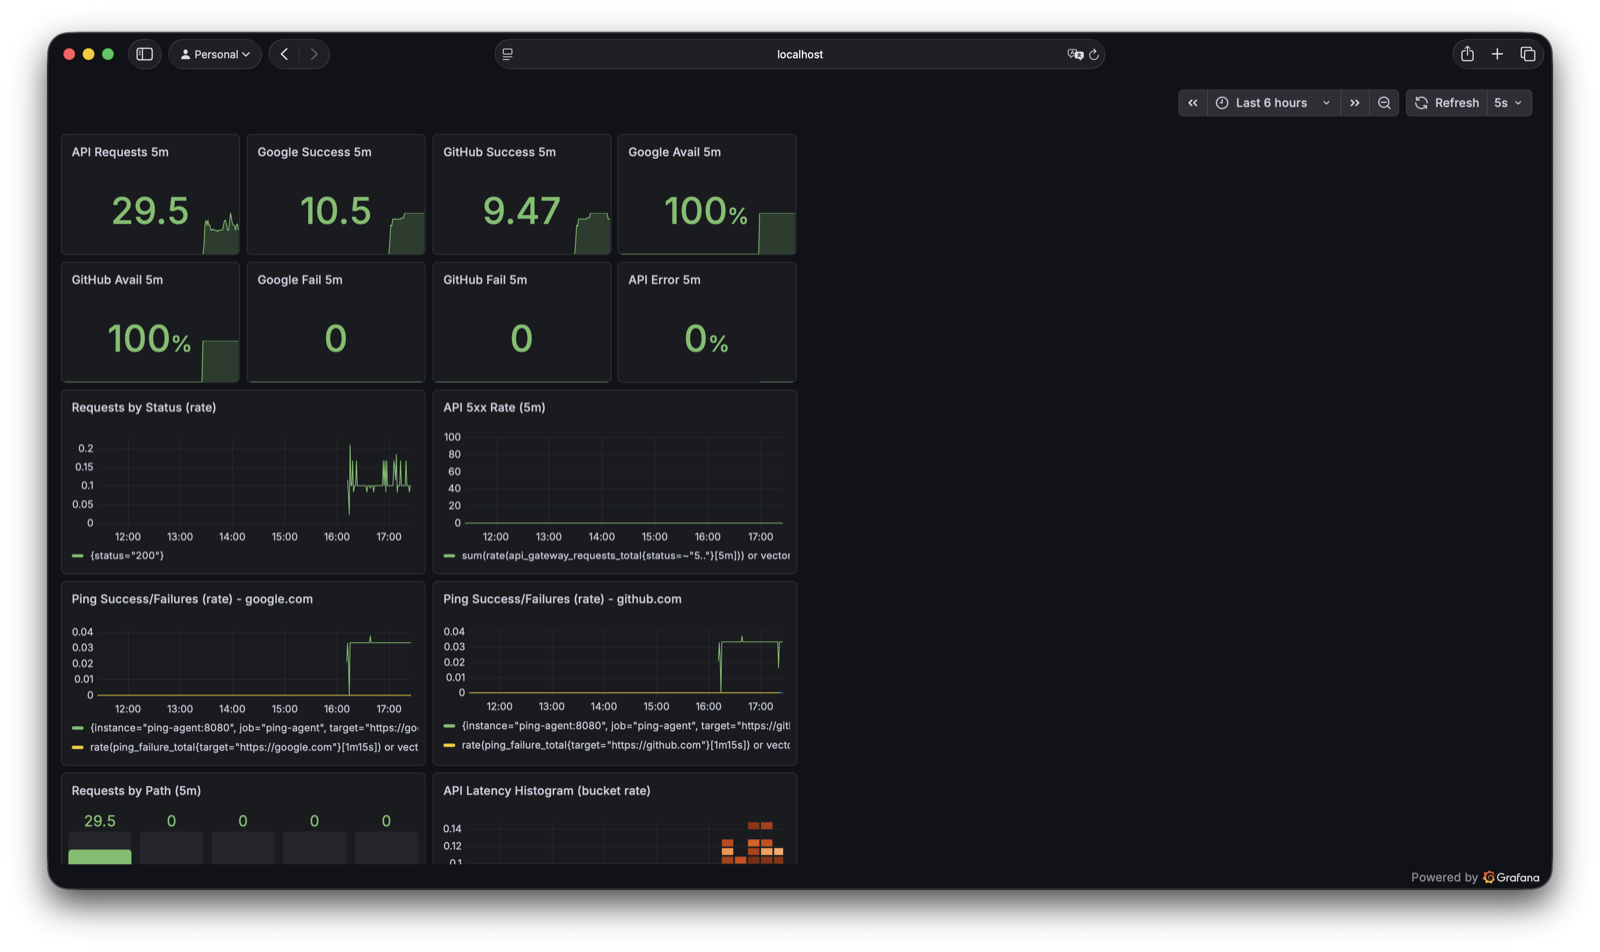
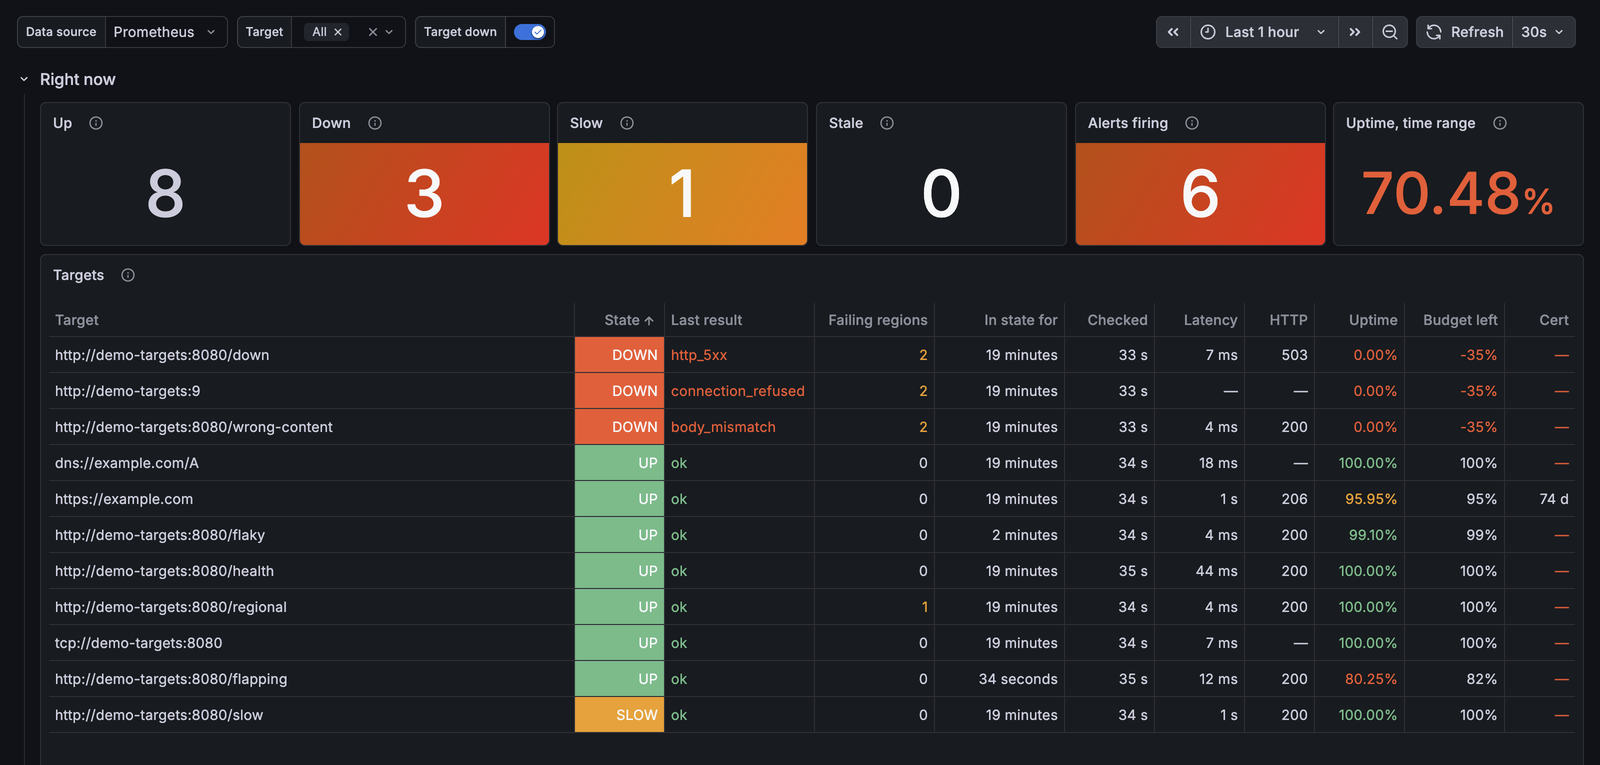
docs(cases): refresh the three cases from their public repositories
Payment reliability now shows the whole money path, not only the duplicate check: the redelivered webhook applied once, a reused key with a changed request refused, net settlement paid once while runs race, and the provider's report reconciled both ways. Its limits say the provider is simulated and no bank statement closes the loop yet.

Service observability shows the region vote and the honest states: a slow page that stays up, a one-region failure that is not an outage, the status API's verdicts, and collection at the scrape boundary, with crops of the new dashboard and status page.

Android device trust adds the attested Keystore keys and the backend refusing late and edited requests, names its stack after the Keystore and BiometricPrompt work, and says where the reference backend runs.

diff --git a/lib/scenarios.ts b/lib/scenarios.ts
@@ -60,14 +60,14 @@ export const scenarios: Scenario[] = [
     number: "01",
     shortTitle: "A payment callback arrived twice",
     title: "The same payment callback arrived twice",
-    consequence: "The second delivery must not advance the payment again.",
+    consequence: "The second delivery must not move the payment again, and the books must still agree with the payout and the provider's report.",
     premise:
-      "The first delivery completes the payment. The second should be recorded without repeating the state change.",
+      "The first delivery completes the payment. The second should be recorded without repeating the change. A duplicate check alone isn't enough: retries need keys that refuse a changed request, every change needs a ledger entry, and every payout needs a verdict from the provider's report.",
     repo: "https://github.com/fattah247/payflow-reliability",
-    technology: "Spring Boot · PostgreSQL · REST · Docker",
+    technology: "Java 21 · Spring Boot · PostgreSQL · Flyway · Prometheus · Docker",
     baselineLabel: "Without a duplicate check",
     designedLabel: "With a duplicate check",
-    decision: "Check the callback ID before updating payment state.",
+    decision: "Check the callback ID before changing the payment, refuse a reused key with a different request, and reconcile every payout against the provider's report.",
     outcome: "Two deliveries are recorded. The payment changes once.",
     outcomeNodeId: "state",
     dependencies: {
@@ -109,20 +109,32 @@ export const scenarios: Scenario[] = [
     ],
     evidence: [
       {
-        src: "/projects/payflow/09-audit-trail.png",
-        alt: "Payflow audit-trail scenario output: one payment's events, each with its state transition, actor, and request",
-        caption: "One call explains what happened to a payment: every state change with the actor and the request that caused it.",
-        focus: "Each transition, its actor, and its request",
+        src: "/projects/payflow/05-duplicate-webhook-ignored.png",
+        alt: "Payflow duplicate-webhook scenario output: a redelivery, a restated status and a late authorization all absorbed, and ten parallel deliveries applied once with one transaction, one ledger journal and no review cases",
+        caption: "Ten parallel deliveries apply once: one provider transaction, one ledger journal, no review cases. A restated status under a new ID and a late authorization are absorbed too.",
+        focus: "Applied once; repeats acknowledged",
       },
       {
-        src: "/projects/payflow/05-duplicate-webhook-ignored.png",
-        alt: "Payflow duplicate-webhook scenario output: redeliveries answered HTTP 200 and ignored, ten parallel deliveries applied once",
-        caption: "Redeliveries are acknowledged and ignored: ten parallel deliveries apply once, leaving one provider transaction and no review cases.",
-        focus: "Applied once; repeats acknowledged",
+        src: "/projects/payflow/04-idempotency-replay.png",
+        alt: "Payflow idempotency scenario output: a retry replays the original payment, the same key with a different payload is rejected with HTTP 422, and eight parallel retries create one payment",
+        caption: "A retry with the same key replays the original payment. The same key with a changed body is refused, and eight parallel retries still create one payment.",
+        focus: "A reused key with a changed request is refused",
+      },
+      {
+        src: "/projects/payflow/07-settlement-batch.png",
+        alt: "Payflow settlement scenario output: four parallel settlement runs create one batch, captures minus refunds pay out 5,500 IDR net, a held payment waits, and the ledger owes nothing afterwards",
+        caption: "Four settlement runs race and exactly one batch pays out: captures minus refunds, 5,500 IDR net. A held payment waits for a decision, and afterwards the ledger owes the merchant nothing.",
+        focus: "Paid out once, net of refunds",
+      },
+      {
+        src: "/projects/payflow/08-reconciliation-mismatch.png",
+        alt: "Payflow reconciliation scenario output: each row of the provider's report gets a verdict, a payout missing from the report is flagged, only the clean match is reconciled, and re-importing opens no new cases",
+        caption: "The provider's report is checked both ways: every row gets a verdict, a payout the provider didn't report is flagged, only the clean match is reconciled, and re-importing the report opens no new cases.",
+        focus: "Every payout gets a verdict",
       },
     ],
     limitation:
-      "This public lab is built from common payment engineering practice. It does not represent the systems, code, or business rules of any employer, past or present.",
+      "This public lab is built from common payment engineering practice; it does not represent the systems, code, or business rules of any employer, past or present. The provider is simulated locally, and no bank statement closes the loop yet.",
   },
   {
     slug: "iyup",
@@ -137,10 +149,10 @@ export const scenarios: Scenario[] = [
     premise:
       "The health check still said “up.” Latency showed that users were already experiencing degradation.",
     repo: "https://github.com/fattah247/iYup",
-    technology: "Prometheus · Grafana · Alertmanager · Go",
+    technology: "Go · Prometheus · Alertmanager · Grafana · Python · Helm",
     baselineLabel: "Health check only",
     designedLabel: "Health, latency, and collection state",
-    decision: "Separate availability, performance, and collection state.",
+    decision: "Separate availability, performance, and collection state, and call an outage only when most regions see it.",
     outcome: "The operator can distinguish degradation from missing telemetry.",
     outcomeNodeId: "decision",
     dependencies: {
@@ -193,19 +205,31 @@ export const scenarios: Scenario[] = [
     evidence: [
       {
         src: "/projects/iyup/grafana-dashboard.png",
-        alt: "iYup Grafana dashboard showing health and latency",
-        caption: "Health, latency, and alert state are visible in one operating surface.",
-        focus: "Latency panel and active alert state",
+        alt: "iYup Grafana dashboard, Right now: 8 targets up, 3 down, 1 slow, none stale, 6 alerts firing, and a table of targets with their state, last result, failing regions, latency and error budget left",
+        caption: "The dashboard opens on right now: 8 up, 3 down, 1 slow, nothing stale. Each target shows its state, the reason for its last result, and how many regions see it failing.",
+        focus: "What is down or slow, and why",
+      },
+      {
+        src: "/projects/iyup/status-page.png",
+        alt: "iYup status page: a regional outage target still up while failing from one of two regions, and a slow page still up but marked slow at 1.57 seconds against a 1.00 second threshold",
+        caption: "A slow page stays up but is marked slow: 1.57 s against its 1.00 s threshold. A failure seen from one of two regions is a warning, not an outage.",
+        focus: "Slow is not down; one region is not an outage",
+      },
+      {
+        src: "/projects/iyup/status-api.png",
+        alt: "iYup status API output: overall status degraded with 7 up, 3 down, 0 unknown, 1 slow and 1 in maintenance, then each target's state, reason, and what each region saw",
+        caption: "The status API reports one verdict (degraded: 7 up, 3 down, 1 slow, 1 in maintenance) and, for each target, its state, its reason, and what each region saw.",
+        focus: "Each target's verdict, region by region",
       },
       {
         src: "/projects/iyup/prometheus-targets.png",
-        alt: "iYup Prometheus target collection status",
-        caption: "Collection failure is visible at the scrape boundary instead of being mistaken for a zero value.",
-        focus: "Target health at the collection edge",
+        alt: "Prometheus targets page: the API gateway and both regions' ping agents being scraped, all up",
+        caption: "Collection is visible at the scrape boundary: both regions' agents and the API are scraped, so missing data reads as unknown, never as down or as zero.",
+        focus: "Collection state at the scrape boundary",
       },
     ],
     limitation:
-      "The demonstration explains signal relationships; useful production thresholds still require real traffic history and service objectives.",
+      "The demo's two regions run on one machine, and useful production thresholds still require real traffic history and service objectives.",
   },
   {
     slug: "trustgate",
@@ -220,10 +244,10 @@ export const scenarios: Scenario[] = [
     premise:
       "A root signal changes confidence. The final decision also depends on other signals and the risk of the requested action.",
     repo: "https://github.com/fattah247/trustgate-android",
-    technology: "Kotlin · Android · Jetpack Compose · Jetpack Security",
+    technology: "Kotlin · Jetpack Compose · Android Keystore · BiometricPrompt",
     baselineLabel: "Block on any suspicious signal",
     designedLabel: "Evaluate signals against action risk",
-    decision: "Evaluate signal combinations against action sensitivity.",
+    decision: "Evaluate signal combinations against action sensitivity, and ask for a confirmation signed by a biometric-bound key when the risk is medium.",
     outcome: "Uncertainty can require confirmation instead of an automatic block.",
     outcomeNodeId: "decision",
     dependencies: {
@@ -281,6 +305,18 @@ export const scenarios: Scenario[] = [
         focus: "The points behind the verdict",
       },
       {
+        src: "/projects/trustgate/11-device-keys.png",
+        alt: "TrustGate Android Request signing screen: the device key and the step-up key, each with its attestation verified, where it lives, the boot state and the bootloader state",
+        caption: "Every request is signed by a P-256 key in Android Keystore. The step-up key signs only after biometrics or the screen lock, and the backend reads each key's attestation: where it lives and the device's boot state.",
+        focus: "Keys that never leave the device",
+      },
+      {
+        src: "/projects/trustgate/05-request-signing-reference.png",
+        alt: "TrustGate Android backend responses: a request sent after its time window rejected as too late, and a request edited after signing rejected for a signature mismatch",
+        caption: "The reference backend refuses a request that arrives too late or was edited after signing, so a held-back or tampered request can't get through.",
+        focus: "Late and edited requests refused",
+      },
+      {
         src: "/projects/trustgate/07-security-event-log.png",
         alt: "TrustGate Android Activity log: the reference verifier rejecting a late, an edited, and a replayed request, and the signals found",
         caption: "Device checks, gate decisions, and the verifier's reasons for accepting or rejecting each request leave a readable local trail.",
@@ -288,7 +324,7 @@ export const scenarios: Scenario[] = [
       },
     ],
     limitation:
-      "Client-side signals raise the cost of abuse but cannot prove device integrity alone; server-side controls remain necessary.",
+      "Client-side signals raise the cost of abuse but cannot prove device integrity alone. In this lab the server's part runs on the device as a reference backend; production needs it on a server.",
   },
 ];
 
